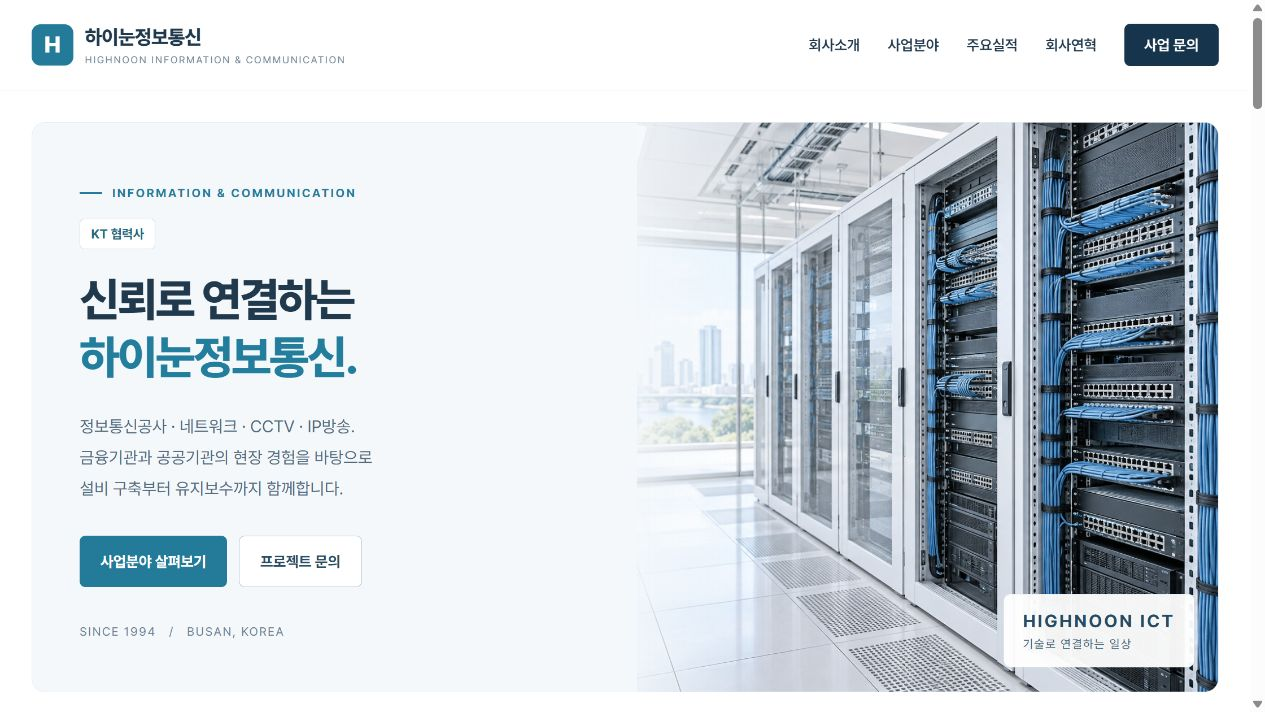
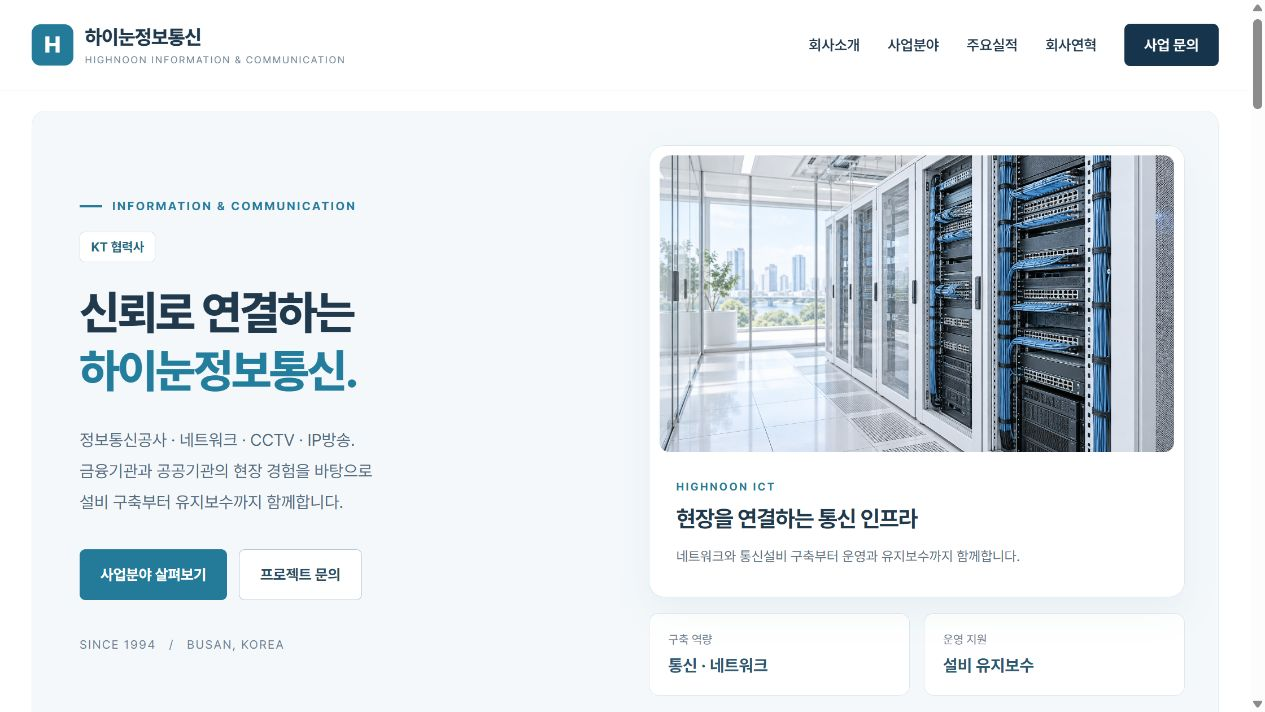
Publish separate hero photo and capability cards

diff --git a/index.html b/index.html
@@ -23,6 +23,7 @@ header{position:sticky;top:0;z-index:40;background:rgba(255,255,255,.97);backdro
 @media(max-width:767px){.wrap{width:calc(100% - 32px)}header{margin-bottom:18px}.nav-shell{padding:14px 0;position:relative}.brand-name{font-size:18px}.brand-symbol{width:36px;height:36px;font-size:20px}.menu-toggle{display:grid;place-items:center}.nav-links{display:none;position:absolute;top:calc(100% + 3px);left:0;right:0;background:white;padding:16px;border:1px solid var(--line);border-radius:9px;box-shadow:0 15px 35px rgba(21,40,60,.08)}.nav-links.open{display:flex;flex-direction:column;align-items:stretch;gap:4px}.nav-links a{padding:12px}.nav-contact{text-align:center}.hero{grid-template-columns:1fr;min-height:auto;border-radius:10px}.hero-copy{padding:33px 24px 30px}.hero-kicker{gap:12px}.hero .eyebrow{font-size:10px;letter-spacing:1.1px}.partner-badge{font-size:12px}.hero h1{font-size:37px;letter-spacing:-1.6px;margin-top:20px}.hero-desc{font-size:15px;margin-top:20px}.hero-actions{flex-wrap:wrap;margin-top:25px}.hero-foot{margin-top:26px;font-size:11px}.btn{font-size:14px;min-height:48px}.hero-visual{height:245px}.hero-visual img{object-position:58% 45%}.hero-visual:after{background:linear-gradient(180deg,rgba(244,248,251,.4),transparent 25%)}.visual-label{right:17px;bottom:17px;padding:10px 14px;font-size:10px}.visual-label strong{font-size:15px}.trust{grid-template-columns:1fr 1fr;gap:25px 12px;padding:28px 0}.trust-item{padding-left:8px!important}.trust-item:nth-child(2){border:0}.trust strong{font-size:22px}.trust span{font-size:12px}.partner-panel{display:block;padding:21px 20px;margin-top:24px}.partner-panel h2{font-size:22px}.partner-panel p{font-size:14px}.partner-link{display:block;margin-top:18px}.section{padding:67px 0}.section-top{display:block;margin-bottom:29px}.section-top p{margin-top:18px}.intro-layout,.history-layout,.contact-layout{grid-template-columns:1fr;gap:30px}body h2{font-size:30px;letter-spacing:-1px}.intro-copy p,.history-lead p{font-size:16px}.company-facts{padding:7px 19px}.company-facts div{grid-template-columns:80px 1fr;font-size:14px}.service-feature{grid-template-columns:1fr}.service-feature img{min-height:0;height:220px}.service-feature-copy{padding:27px 24px}.service-feature-copy h3{font-size:25px}.service-keywords{gap:10px}.business-grid{grid-template-columns:1fr;gap:16px}.business-inner{padding:25px;min-height:225px}.business-card:last-child{grid-column:auto}.business-card:last-child .business-inner{display:block}.business-card:last-child .business-icon{margin-bottom:22px;font-size:28px}body h3{font-size:22px}.project{grid-template-columns:1fr;gap:8px;padding:22px 10px}.project h3{font-size:19px}.project-client{text-align:left;font-size:12px}.timeline{margin-left:6px}.contact-list strong{font-size:17px}.footer-row{display:block}.footer-links{margin-top:23px;gap:17px}footer{padding:30px 0}}
 @media(prefers-reduced-motion:reduce){html{scroll-behavior:auto}*{transition:none!important}.motion-ready .reveal{opacity:1;transform:none}}
 
+.hero{grid-template-columns:1.04fr .96fr;min-height:620px}.hero-copy{padding-right:30px}.hero-media{min-width:0;align-self:center;padding:34px 34px 34px 0}.hero-visual{margin:0;height:auto;background:#fff;border:1px solid #dce7ed;border-radius:16px;padding:10px;box-shadow:0 14px 35px rgba(35,80,108,.06)}.hero-visual img{height:300px;border-radius:10px;object-position:58% center}.hero-visual:after{display:none}.visual-label{position:static;background:#fff;border:0;border-radius:0;padding:22px 17px 18px;letter-spacing:0;text-align:left;font-size:15px;color:var(--muted)}.visual-eyebrow{font-size:11px;color:#287a96;font-weight:700;letter-spacing:1.8px}.visual-label strong{font-size:23px;line-height:1.4;letter-spacing:-.7px;margin-top:7px;font-weight:700;color:var(--ink)}.visual-label p{font-size:14px;line-height:1.75;margin-top:10px}.hero-highlights{display:grid;grid-template-columns:1fr 1fr;gap:14px;margin-top:16px}.hero-highlights div{background:#fff;border:1px solid #dce7ed;border-radius:10px;padding:17px 19px}.hero-highlights span{display:block;color:#6a8090;font-size:12px}.hero-highlights strong{display:block;font-size:17px;font-weight:650;margin-top:5px;color:#2c5871}@media(max-width:1050px){.hero-media{padding-right:24px}.hero-visual img{height:260px}.hero-highlights div{padding:14px}.hero-highlights strong{font-size:15px}.visual-label strong{font-size:21px}}@media(max-width:767px){.hero{grid-template-columns:1fr;min-height:auto}.hero-copy{padding:33px 24px 28px}.hero-media{padding:0 19px 22px}.hero-visual{height:auto;padding:8px;border-radius:13px}.hero-visual img{height:220px;border-radius:8px}.visual-label{padding:20px 13px 15px;font-size:14px}.visual-label strong{font-size:21px}.visual-label p{font-size:14px}.hero-highlights{gap:10px;margin-top:12px}.hero-highlights div{padding:14px 12px}.hero-highlights strong{font-size:15px}}
   </style>
 </head>
 <body>
@@ -36,7 +37,7 @@ header{position:sticky;top:0;z-index:40;background:rgba(255,255,255,.97);backdro
     <div class="wrap">
       <section class="hero" aria-labelledby="hero-title">
         <div class="hero-copy"><div class="hero-kicker"><div class="eyebrow">INFORMATION & COMMUNICATION</div><span class="partner-badge">KT 협력사</span></div><h1 id="hero-title">신뢰로 연결하는<br><span>하이눈정보통신.</span></h1><p class="hero-desc">정보통신공사 · 네트워크 · CCTV · IP방송.<br>금융기관과 공공기관의 현장 경험을 바탕으로<br>설비 구축부터 유지보수까지 함께합니다.</p><div class="hero-actions"><a class="btn btn-light" href="#business">사업분야 살펴보기</a><a class="btn btn-outline" href="#contact">프로젝트 문의</a></div><p class="hero-foot">SINCE 1994 &nbsp; / &nbsp; BUSAN, KOREA</p></div>
-        <div class="hero-visual"><img src="assets/network-hero-light.jpg" alt="서버 랙과 광통신 케이블을 표현한 통신 인프라 이미지" decoding="async" fetchpriority="high"><div class="visual-label"><strong>HIGHNOON ICT</strong>기술로 연결하는 일상</div></div>
+        <div class="hero-media"><figure class="hero-visual"><img src="assets/network-hero-light.jpg" alt="서버 랙과 광통신 케이블을 표현한 통신 인프라 이미지" decoding="async" fetchpriority="high"><figcaption class="visual-label"><span class="visual-eyebrow">HIGHNOON ICT</span><strong>현장을 연결하는 통신 인프라</strong><p>네트워크와 통신설비 구축부터 운영과 유지보수까지 함께합니다.</p></figcaption></figure><div class="hero-highlights"><div><span>구축 역량</span><strong>통신 · 네트워크</strong></div><div><span>운영 지원</span><strong>설비 유지보수</strong></div></div></div>
       </section>
       <div class="trust" aria-label="기업 핵심 정보"><div class="trust-item"><strong>1994.12</strong><span>기업 설립</span></div><div class="trust-item"><strong>정보통신공사</strong><span>설계 · 시공 · 유지보수</span></div><div class="trust-item"><strong>금융 · 공공</strong><span>기관별 통신시설 구축 경험</span></div><div class="trust-item"><strong>KT 협력사</strong><span>통신 인프라 구축 · 유지보수</span></div></div>
       <aside class="partner-panel" aria-labelledby="partner-title"><div><span class="partner-caption">협력사 소개</span><h2 id="partner-title">KT 협력사, 하이눈정보통신</h2><p>현장에 필요한 통신시설을 구축하고, 안정적인 운영과 유지보수를 지원합니다.</p></div><a class="partner-link" href="https://corp.kt.com/html/intro/main.html" target="_blank" rel="noopener noreferrer">KT 공식 기업소개 보기<span class="new-tab-note">새 창으로 열기</span></a></aside>
